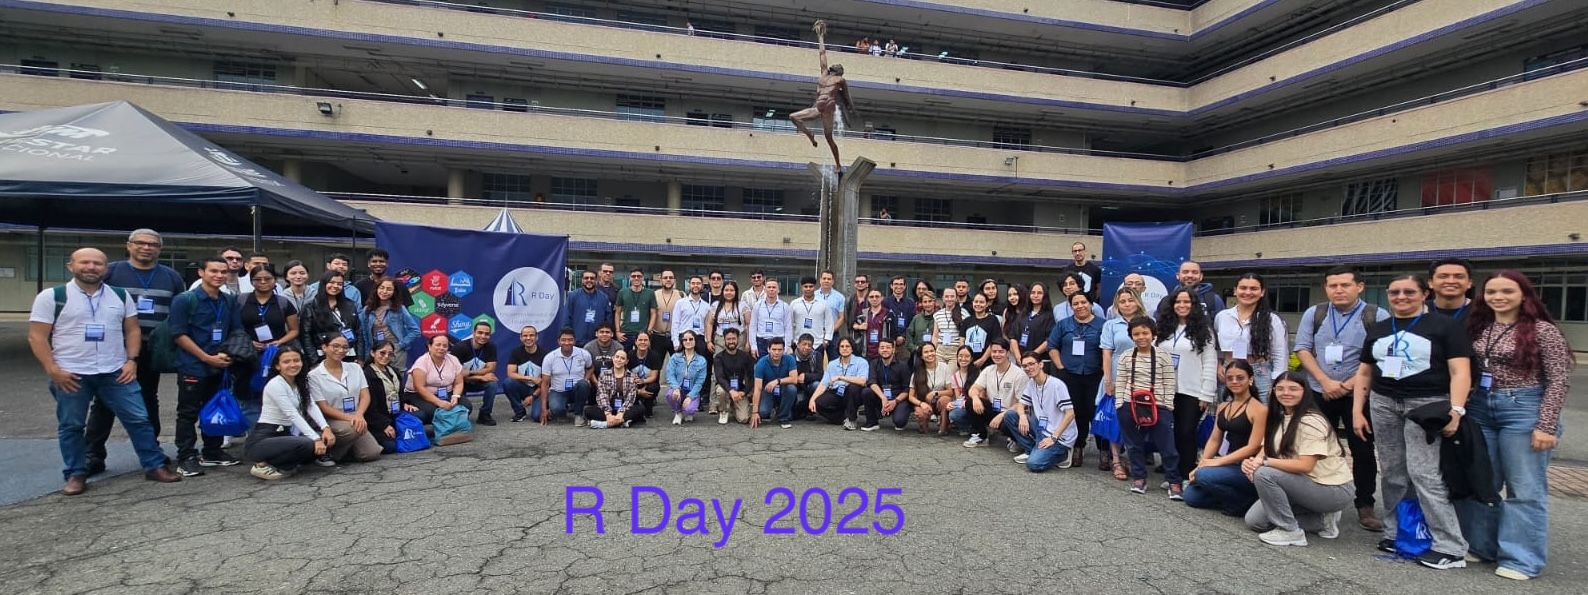
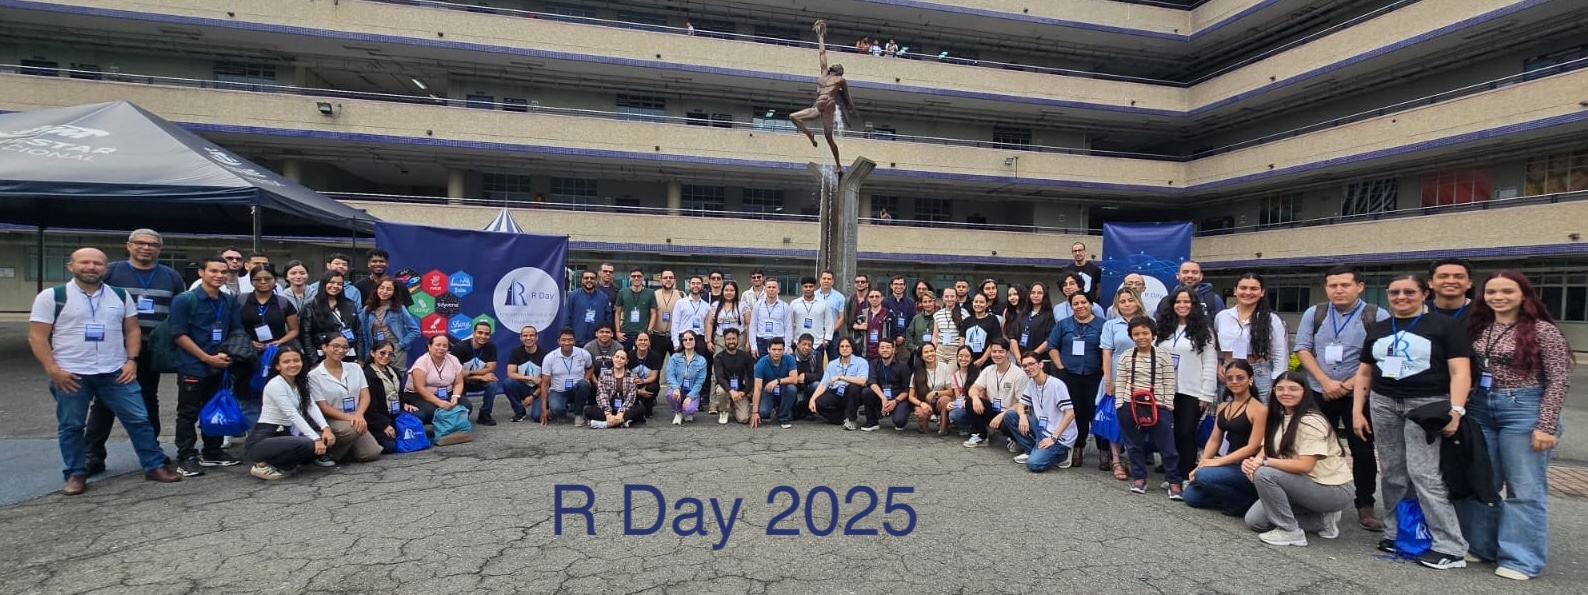
nueva conferencia

Changed region(s): [[0.3394, 0.8168, 0.5863, 0.9378]]

diff --git a/conferencistas01.html b/conferencistas01.html
@@ -404,6 +404,11 @@ Profesora Universidade Federal Rio Grande do Norte.<br />
 </center>
 <p><br/> <br/></p>
 <center>
+<iframe width="280" height="157.5" src="https://www.youtube.com/embed/TPAVvx9Xrq0?si=6wGch__SJxBsVbk4" title="YouTube video player" frameborder="0" allow="accelerometer; autoplay; clipboard-write; encrypted-media; gyroscope; picture-in-picture; web-share" referrerpolicy="strict-origin-when-cross-origin" allowfullscreen>
+</iframe>
+</center>
+<p><br/> <br/></p>
+<center>
 <img src="imagenes/fotos_conferencistas/Fernando.png" width="300" height="300" alt=""><br />
 <a
 href="https://www.flinders.edu.au/people/fernando.marmolejoramos">Fernando
